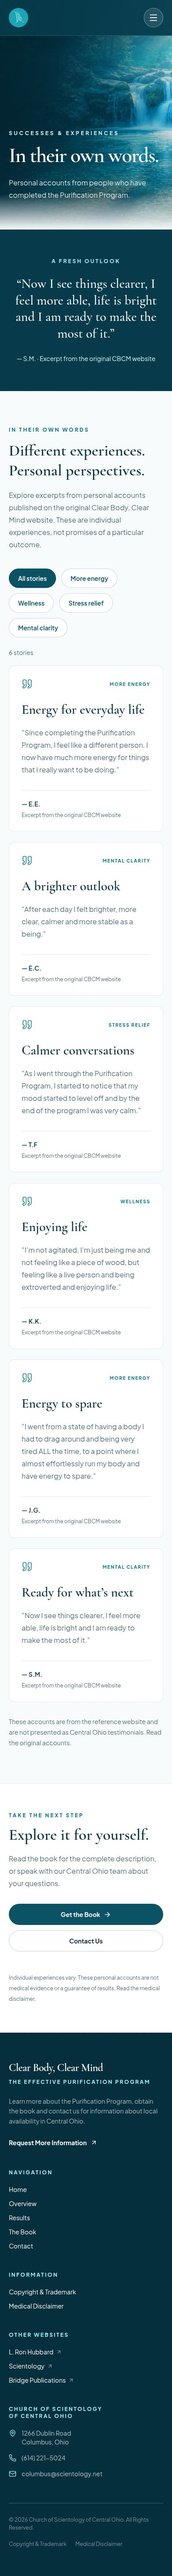
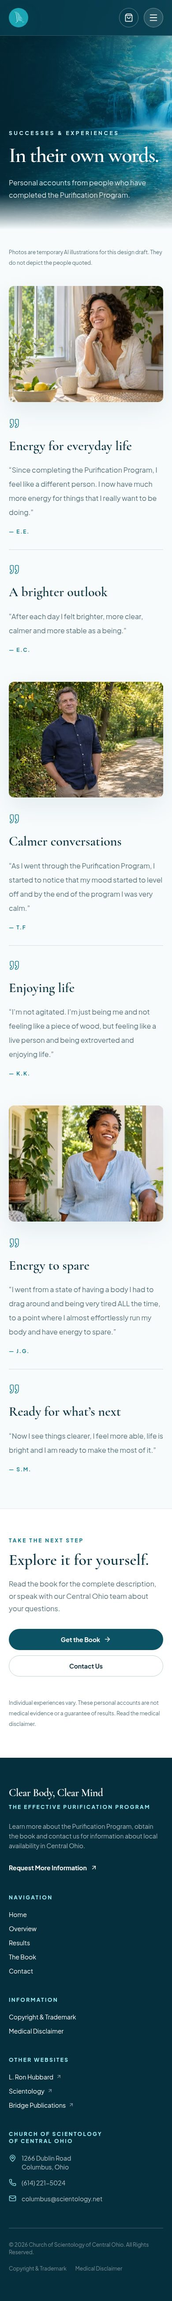
Redesign Results as photo-led personal stories without categories

diff --git a/components/results/StoryCollection.tsx b/components/results/StoryCollection.tsx
@@ -1,35 +1,38 @@
-"use client";
-
-import { useState } from "react";
+import Image from "next/image";
 import { Quote } from "lucide-react";
-import { resultStories, resultTopics, type ResultTopic } from "@/content/results";
+import { resultStories } from "@/content/results";
+
+const photoStories = [
+  { image: "/images/placeholders/results-morning.webp", alt: "AI illustration of a woman enjoying a quiet morning at home; not a person quoted", position: "object-[65%_center]", stories: resultStories.slice(0, 2) },
+  { image: "/images/placeholders/results-outdoors.webp", alt: "AI illustration of a man outdoors on a leafy walking path; not a person quoted", position: "object-center", stories: resultStories.slice(2, 4) },
+  { image: "/images/placeholders/results-sunlight.webp", alt: "AI illustration of a woman smiling on a sunlit porch; not a person quoted", position: "object-center", stories: resultStories.slice(4, 6) },
+];
 
 export default function StoryCollection() {
-  const [topic, setTopic] = useState<ResultTopic>("All stories");
-  const visible = resultStories.filter((story) => topic === "All stories" || story.topic === topic);
   return (
-    <section className="mx-auto max-w-[1440px] px-5 py-20 sm:px-8 lg:px-12 lg:py-28" aria-labelledby="stories-heading">
-      <div className="max-w-3xl">
-        <p className="text-xs font-bold uppercase tracking-[0.24em] text-[#087487]">In their own words</p>
-        <h2 id="stories-heading" className="mt-4 font-display text-4xl font-semibold leading-tight text-[#0c3341] sm:text-5xl">Different experiences.<br />Personal perspectives.</h2>
-        <p className="mt-5 text-base leading-7 text-[#56717a]">Explore excerpts from personal accounts published on the original Clear Body, Clear Mind website. These are individual experiences, not promises of a particular outcome.</p>
+    <section className="bg-[#f7fbfc] px-5 pb-20 pt-10 sm:px-8 lg:px-12 lg:pb-28 lg:pt-14" aria-label="Personal stories">
+      <div className="mx-auto max-w-[1440px]">
+        <p className="max-w-2xl text-xs leading-6 text-[#56717a]">Photos are temporary AI illustrations for this design draft. They do not depict the people quoted.</p>
+        <div className="mt-10 space-y-16 lg:mt-12 lg:space-y-24">
+          {photoStories.map((group, index) => (
+            <div key={group.image} className="grid items-center gap-9 lg:grid-cols-2 lg:gap-16 xl:gap-24">
+              <figure className={`relative aspect-[4/3] overflow-hidden rounded-xl bg-[#e5eff0] shadow-[0_20px_55px_rgba(10,64,78,0.08)] lg:aspect-[4/5] ${index % 2 ? "lg:order-2" : ""}`}>
+                <Image src={group.image} alt={group.alt} fill sizes="(max-width: 1023px) 100vw, 46vw" className={`object-cover ${group.position}`} />
+              </figure>
+              <div className="divide-y divide-[#0c3341]/15">
+                {group.stories.map((story) => (
+                  <article key={story.id} className="py-8 first:pt-0 last:pb-0 sm:py-10">
+                    <Quote size={25} strokeWidth={1.3} className="mb-5 text-[#087487]" aria-hidden="true" />
+                    <h2 className="font-display text-3xl font-semibold leading-tight text-[#0c3341] sm:text-4xl">{story.title}</h2>
+                    <blockquote className="mt-5 text-base leading-8 text-[#56717a] sm:text-lg">“{story.quote}”</blockquote>
+                    <p className="mt-5 text-xs font-semibold uppercase tracking-[0.15em] text-[#087487]">— {story.attribution}</p>
+                  </article>
+                ))}
+              </div>
+            </div>
+          ))}
+        </div>
       </div>
-      <div className="mt-10 flex flex-wrap gap-3" role="group" aria-label="Filter stories by topic">
-        {resultTopics.map((item) => <button key={item} type="button" aria-pressed={topic === item} aria-controls="story-grid" onClick={() => setTopic(item)} className={`min-h-11 rounded-full border px-5 py-2 text-sm font-semibold transition focus-visible:outline-2 focus-visible:outline-offset-4 focus-visible:outline-[#087487] ${topic === item ? "border-[#0c5265] bg-[#0c5265] text-white" : "border-[#0c3341]/20 bg-white text-[#0c5265] hover:border-[#087487]"}`}>{item}</button>)}
-      </div>
-      <p className="mt-6 text-sm text-[#56717a]" role="status">{visible.length} {visible.length === 1 ? "story" : "stories"}</p>
-      <div id="story-grid" className="mt-5 grid gap-6 md:grid-cols-2 lg:grid-cols-3">
-        {visible.map((story) => (
-          <article key={story.id} className="flex flex-col rounded-xl border border-[#0c3341]/10 bg-white p-7 sm:p-9">
-            <div className="flex items-center justify-between gap-4"><Quote size={25} strokeWidth={1.4} className="text-[#087487]" /><p className="text-[0.65rem] font-bold uppercase tracking-[0.15em] text-[#087487]">{story.topic}</p></div>
-            <h3 className="mt-7 font-display text-3xl font-semibold text-[#0c3341]">{story.title}</h3>
-            <blockquote className="mt-5 flex-1 text-base leading-7 text-[#56717a]">“{story.quote}”</blockquote>
-            <p className="mt-8 border-t border-[#0c3341]/10 pt-5 text-sm font-semibold text-[#0c3341]">— {story.attribution}</p>
-            <p className="mt-2 text-xs text-[#56717a]">Excerpt from the original CBCM website</p>
-          </article>
-        ))}
-      </div>
-      <p className="mt-8 text-sm leading-6 text-[#56717a]">These accounts are from the reference website and are not presented as Central Ohio testimonials. <a href="https://clearbodyclearmind.com/results" target="_blank" rel="noopener noreferrer" className="underline underline-offset-4">Read the original accounts<span className="sr-only"> (opens in a new tab)</span></a>.</p>
     </section>
   );
 }

diff --git a/content/results.ts b/content/results.ts
@@ -1,12 +1,10 @@
 // Exact short excerpts from https://clearbodyclearmind.com/results (reviewed 2026-11-08).
 // Initials identify the reference site's contributors, not Central Ohio participants.
-export const resultTopics = ["All stories", "More energy", "Wellness", "Stress relief", "Mental clarity"] as const;
-export type ResultTopic = (typeof resultTopics)[number];
-export const resultStories: { id: string; topic: ResultTopic; title: string; quote: string; attribution: string }[] = [
-  { id: "ee", topic: "More energy", title: "Energy for everyday life", quote: "Since completing the Purification Program, I feel like a different person. I now have much more energy for things that I really want to be doing.", attribution: "E.E." },
-  { id: "ec", topic: "Mental clarity", title: "A brighter outlook", quote: "After each day I felt brighter, more clear, calmer and more stable as a being.", attribution: "E.C." },
-  { id: "tf", topic: "Stress relief", title: "Calmer conversations", quote: "As I went through the Purification Program, I started to notice that my mood started to level off and by the end of the program I was very calm.", attribution: "T.F" },
-  { id: "kk", topic: "Wellness", title: "Enjoying life", quote: "I’m not agitated. I’m just being me and not feeling like a piece of wood, but feeling like a live person and being extroverted and enjoying life.", attribution: "K.K." },
-  { id: "jg", topic: "More energy", title: "Energy to spare", quote: "I went from a state of having a body I had to drag around and being very tired ALL the time, to a point where I almost effortlessly run my body and have energy to spare.", attribution: "J.G." },
-  { id: "sm", topic: "Mental clarity", title: "Ready for what’s next", quote: "Now I see things clearer, I feel more able, life is bright and I am ready to make the most of it.", attribution: "S.M." },
+export const resultStories: { id: string; title: string; quote: string; attribution: string }[] = [
+  { id: "ee", title: "Energy for everyday life", quote: "Since completing the Purification Program, I feel like a different person. I now have much more energy for things that I really want to be doing.", attribution: "E.E." },
+  { id: "ec", title: "A brighter outlook", quote: "After each day I felt brighter, more clear, calmer and more stable as a being.", attribution: "E.C." },
+  { id: "tf", title: "Calmer conversations", quote: "As I went through the Purification Program, I started to notice that my mood started to level off and by the end of the program I was very calm.", attribution: "T.F" },
+  { id: "kk", title: "Enjoying life", quote: "I’m not agitated. I’m just being me and not feeling like a piece of wood, but feeling like a live person and being extroverted and enjoying life.", attribution: "K.K." },
+  { id: "jg", title: "Energy to spare", quote: "I went from a state of having a body I had to drag around and being very tired ALL the time, to a point where I almost effortlessly run my body and have energy to spare.", attribution: "J.G." },
+  { id: "sm", title: "Ready for what’s next", quote: "Now I see things clearer, I feel more able, life is bright and I am ready to make the most of it.", attribution: "S.M." },
 ];

diff --git a/app/results/page.tsx b/app/results/page.tsx
@@ -5,23 +5,18 @@ import Header from "@/components/layout/Header";
 import Footer from "@/components/layout/Footer";
 import PageHero from "@/components/layout/PageHero";
 import StoryCollection from "@/components/results/StoryCollection";
-import { resultStories } from "@/content/results";
 
 export const metadata: Metadata = {
   title: "Personal Experiences | Clear Body, Clear Mind Central Ohio",
-  description: "Explore personal experiences published on the original Clear Body, Clear Mind website, organized by topic.",
+  description: "Personal accounts from people who have completed the Purification Program.",
 };
 
 export default function ResultsPage() {
-  const featured = resultStories.find((story) => story.id === "sm")!;
   return (
     <>
       <Header />
       <main>
         <PageHero eyebrow="Successes & experiences" title="In their own words." description="Personal accounts from people who have completed the Purification Program." imageSrc="/images/hero/waterfall-hero.png" imageAlt="Waterfall flowing through a green forest" />
-        <section className="bg-[#073b4b] px-5 py-16 text-white sm:px-8 lg:px-12 lg:py-24" aria-label="Featured personal experience">
-          <figure className="mx-auto max-w-4xl text-center"><p className="text-xs font-bold uppercase tracking-[0.24em] text-cyan-200">A fresh outlook</p><blockquote className="mt-6 font-display text-3xl font-medium leading-tight sm:text-4xl lg:text-5xl">“{featured.quote}”</blockquote><figcaption className="mt-7 text-sm text-cyan-100">— {featured.attribution} · Excerpt from the original CBCM website</figcaption></figure>
-        </section>
         <StoryCollection />
         <section className="border-t border-[#0c3341]/10 bg-white px-5 py-16 sm:px-8 lg:px-12">
           <div className="mx-auto grid max-w-[1440px] gap-8 lg:grid-cols-[1fr_auto] lg:items-center">

diff --git a/docs/results-redesign.md b/docs/results-redesign.md
@@ -1,0 +1,25 @@
+# Results page redesign
+
+The large navy featured-quote block has been removed. The waterfall PageHero now fades into the same light background as the stories section, eliminating the light-to-navy jump immediately below the hero.
+
+All six original short quotes and attributions remain unchanged. Topic filters, category labels, story count, and repeated source labels/links are removed from the visible page. Source provenance remains in `content/results.ts` and the project documentation.
+
+Three alternating photographic sections pair each image with two accounts, using editorial spacing and a quiet dividing line. This is visual composition, not topic classification. The page is server-rendered and all accounts remain readable without JavaScript.
+
+## Temporary photography
+
+Three images were generated with OpenAI image generation, November 8, 2026, as fictional everyday-life illustrations:
+
+- `public/images/placeholders/results-morning.webp`: woman in a bright home, source PNG `exec-572c536f-2027-4165-aadc-03a6e586b973.png`.
+- `public/images/placeholders/results-outdoors.webp`: man on a leafy park path, source PNG `exec-42172b03-623e-45d1-8ace-cd08da366ee6.png`.
+- `public/images/placeholders/results-sunlight.webp`: woman on a sunlit porch, source PNG `exec-aebe7c82-803c-4e77-98e0-63c2aec8ccf6.png`.
+
+Each prompt requested natural, realistic lifestyle editorial photography with no text, branding, medical context, or before/after framing. Optimized site versions are 1400px WebP. Original generated PNGs remain in the session's generated_images directory.
+
+One visible page note and descriptive alt text make clear these are illustrative photos, not the quoted contributors. When local success stories and photos arrive, replace the relevant image entries in `components/results/StoryCollection.tsx`, update the exact quote/attribution in `content/results.ts`, and revise the temporary-illustration note only when appropriate.
+
+## Review
+
+[Desktop](previews/results-desktop.jpg) · [Mobile](previews/results-mobile.jpg)
+
+Validation: ESLint, TypeScript, production build, and diff checks. Chromium verified six visible stories, no category controls or source labels, three loaded story images, no horizontal overflow or page errors at desktop/mobile widths, and accounts still visible without JavaScript.

diff --git a/docs/image-inventory.md b/docs/image-inventory.md
@@ -11,6 +11,7 @@ The supplied image files below were synced from the desktop project. Their origi
 | Homepage overview | `public/images/hero/biochemical-problem.png` | Existing editorial illustration. Review with user. |
 | Program | `public/images/overview/` | Nine existing images covering program topics and waterfall. Review individually before replacement. |
 | Testimonials | `public/images/results/success-1.jpg`, `success-2.JPG`, `success-3.JPG` | Existing portraits; preserve. Confirm identity, permission, and exact source wording. Never replace attributed portraits with generated people. |
+| Results editorial photos | `public/images/placeholders/results-{morning,outdoors,sunlight}.webp` | Three AI lifestyle illustrations, not images of the contributors. Replace with local photos and exact local successes. See `results-redesign.md`. |
 | Local facility | `public/images/placeholders/reception-concept.webp` | NEW AI concept image on Contact page. Fictional reception lounge, not the real facility. Replace with a local photo. |
 
 ## Local photos to collect

diff --git a/docs/book-results-preview.md b/docs/book-results-preview.md
@@ -32,6 +32,8 @@ The user requested a finished-looking checkout with no setup notices on the page
 
 ## Results page
 
+**Current Results layout:** the later [Results redesign](results-redesign.md) replaces the featured navy block, category filters, and source labels described below with alternating photo/story sections. Quote text and attributions remain unchanged.
+
 Waterfall header, featured account, six short attributed excerpts, topic filters, and links to the Book and Contact pages. Original headings and complete long accounts are not reproduced wholesale. Excerpt wording and initials are preserved; new card titles are editorial navigation labels. These are reference-site accounts, not local testimonials, and no generated people are used to represent contributors. Existing homepage portraits and text are unchanged.
 
 Topics follow the reference: More energy, Wellness, Stress relief, Mental clarity. Filtering works with pressed button states and an announced story count. All six accounts are server-rendered and readable without JavaScript.
